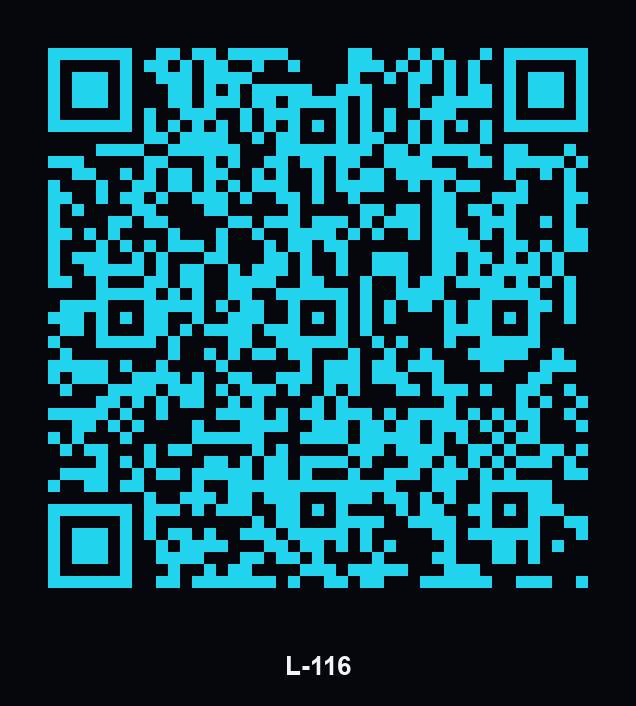
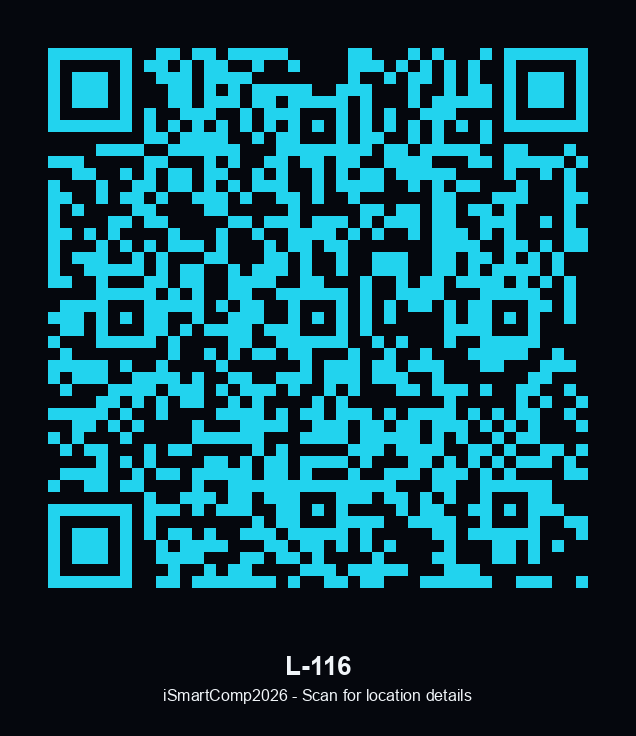
Add descriptive subtitles to QR code images

Changed region(s): [[0.0597, 0.0623, 0.9261, 0.8414], [0.239, 0.8725, 0.7469, 0.966]]

diff --git a/scripts/generate_qr.py b/scripts/generate_qr.py
@@ -14,7 +14,7 @@ with open(LOCATIONS_FILE, "r", encoding="utf-8") as f:
 
 locations = sorted(locations, key=lambda loc: loc["id"])
 
-def create_labeled_qr(data, text, filename):
+def create_labeled_qr(data, text, filename, subtitle="iSmartComp2026 - Scan for location details"):
     qr = qrcode.QRCode(
         version=1,
         error_correction=qrcode.constants.ERROR_CORRECT_H,
@@ -33,7 +33,7 @@ def create_labeled_qr(data, text, filename):
     
     # Calculate sizes
     qr_w, qr_h = qr_img.size
-    text_h = 70  # Space for text at the bottom
+    text_h = 100  # Space for title and subtitle
     
     # Create new image with extra space at bottom using theme background
     new_img = Image.new('RGB', (qr_w, qr_h + text_h), bg_color)
@@ -41,23 +41,31 @@ def create_labeled_qr(data, text, filename):
     
     draw = ImageDraw.Draw(new_img)
     
-    # Try to load a nice font, fallback to default
+    # Try to load fonts, fallback to default
     try:
-        font = ImageFont.truetype("arialbd.ttf", 26) # Arial Bold
+        font_title = ImageFont.truetype("arialbd.ttf", 26) # Arial Bold
+        font_sub = ImageFont.truetype("arial.ttf", 16)
     except IOError:
         try:
-            font = ImageFont.truetype("arial.ttf", 26)
+            font_title = ImageFont.truetype("arial.ttf", 26)
+            font_sub = ImageFont.truetype("arial.ttf", 16)
         except IOError:
-            font = ImageFont.load_default()
+            font_title = ImageFont.load_default()
+            font_sub = ImageFont.load_default()
             
-    # Get text bounding box to center it
-    bbox = draw.textbbox((0, 0), text, font=font)
-    text_w = bbox[2] - bbox[0]
+    # Center title
+    bbox_title = draw.textbbox((0, 0), text, font=font_title)
+    text_w_title = bbox_title[2] - bbox_title[0]
+    text_x_title = (qr_w - text_w_title) // 2
+    text_y_title = qr_h + 15
+    draw.text((text_x_title, text_y_title), text, fill=text_color, font=font_title)
     
-    # Center text
-    text_x = (qr_w - text_w) // 2
-    text_y = qr_h + 15
-    draw.text((text_x, text_y), text, fill=text_color, font=font)
+    # Center subtitle
+    bbox_sub = draw.textbbox((0, 0), subtitle, font=font_sub)
+    text_w_sub = bbox_sub[2] - bbox_sub[0]
+    text_x_sub = (qr_w - text_w_sub) // 2
+    text_y_sub = text_y_title + 35
+    draw.text((text_x_sub, text_y_sub), subtitle, fill=text_color, font=font_sub)
     
     filepath = os.path.join(OUTPUT_FOLDER, filename)
     new_img.save(filepath)
@@ -81,6 +89,6 @@ print("================================")
 
 # Generate Homepage QR code
 home_url = "https://kr9793.github.io/SmartLocationQR/"
-create_labeled_qr(home_url, "iSmartComp2026 Home", "QR_Homepage.png")
+create_labeled_qr(home_url, "iSmartComp2026 Home", "QR_Homepage.png", "Scan for the main conference website")
 print(f"\nCreated: QR_Homepage.png")
 print(f"URL:     {home_url}")
